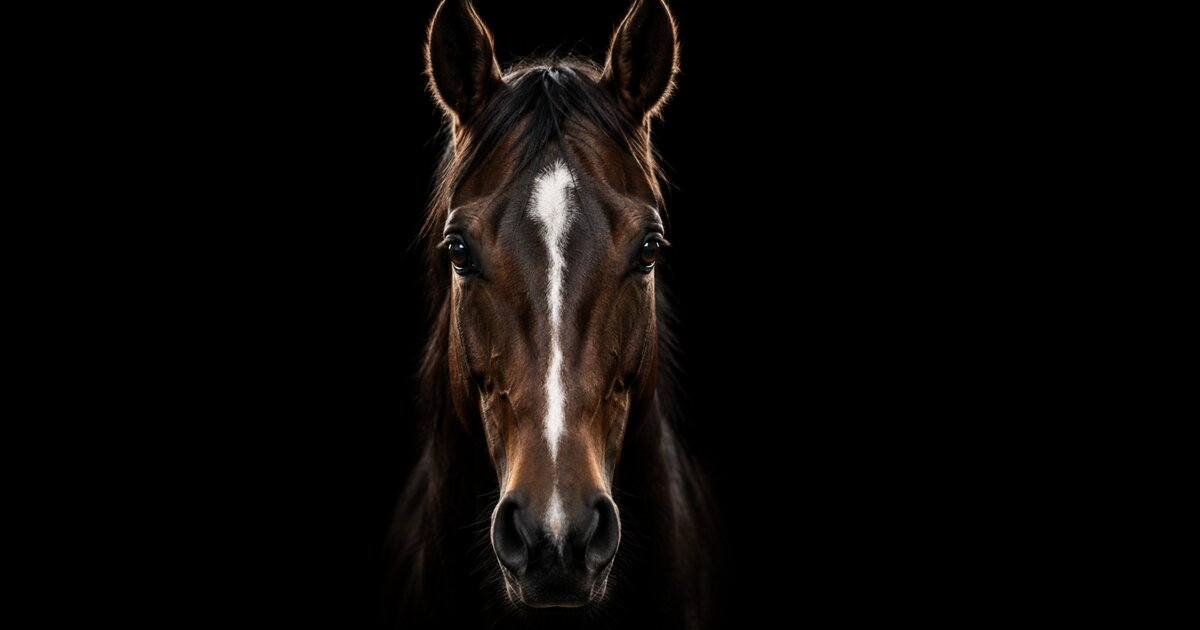
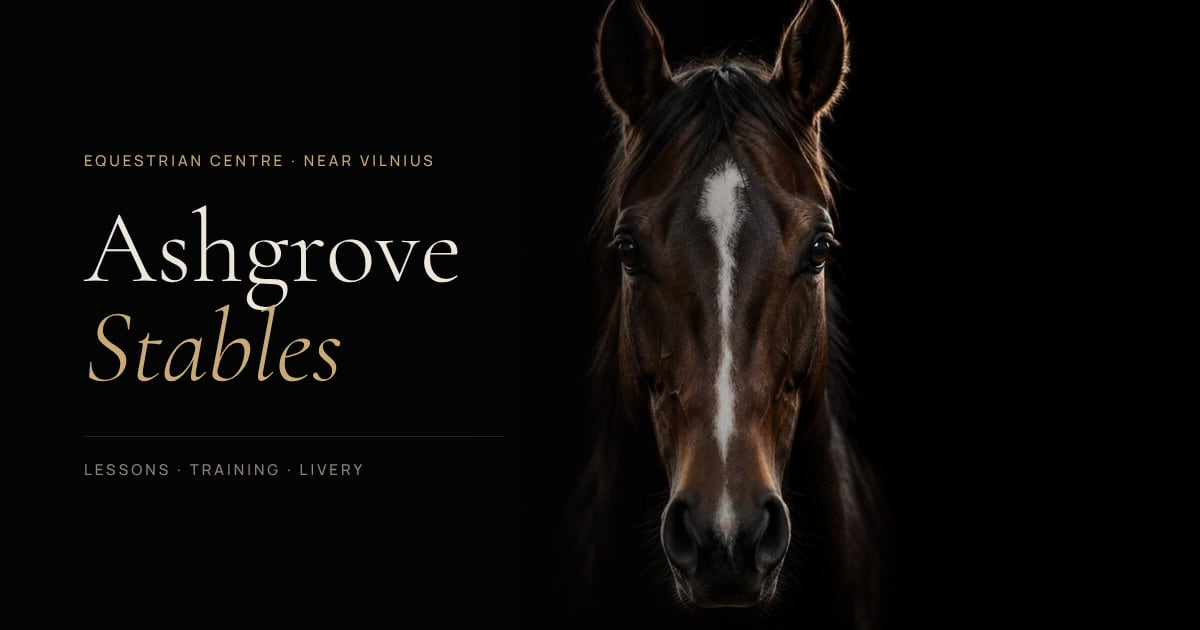
Site audit: performance, accessibility, keyboard, SEO fixes
Lighthouse (mobile / desktop): Performance 80 -> 94 / 78 -> 98,
Accessibility 96 -> 100, Best Practices and SEO 100.

- Layout shift 0.309 -> 0: hero copy isn't painted until the intro plays;
  above-the-fold fonts are preloaded
- CSS inlined (no render-blocking request)
- Responsive WebP photos via npm run images (originals untouched) and a
  Photo component with srcset/sizes; 828 KB of JPG -> ~200 KB at 1024px
- Reduced-motion hero still and frame preload no longer download for
  motion visitors
- Canvases redraw only when a closer frame arrives (was ~170 full redraws
  during load)
- Horse names: aria-label moved to the h3 (prohibited on span)
- Escape closes the mobile menu; contact heading clears the horse on
  portrait tablets
- Branded 1200x630 share image, shorter title/description, logo in
  LocalBusiness schema

Claude-Session: https://claude.ai/code/session_01BUn7GMGc92Bcd1mwiRrJxu

diff --git a/src/data/content.ts b/src/data/content.ts
@@ -12,12 +12,12 @@ export const site = {
 };
 
 export const seo = {
-  title: 'Ashgrove Stables — Riding Lessons, Training & Livery near Vilnius',
+  title: 'Ashgrove Stables — Riding Lessons & Livery near Vilnius',
   description:
-    'Riding lessons for all ages, horse training and full livery in the countryside 20 minutes from Vilnius. Calm horses, small groups, experienced coaches. Book a first lesson.',
+    'Riding lessons for all ages, horse training and full livery 20 minutes from Vilnius. Calm horses, small groups, experienced coaches. Book a first lesson.',
   image: {
     src: '/og-image.jpg',
-    alt: 'A dark bay horse with a white blaze looking straight at the camera on a black background.',
+    alt: 'Ashgrove Stables — equestrian centre near Vilnius. A dark bay horse with a white blaze looks straight at the camera.',
   },
   // Used for Google's business listing data (structured data). SAMPLE values.
   business: {

diff --git a/src/scripts/preloader.ts b/src/scripts/preloader.ts
@@ -9,7 +9,7 @@ import { EASE } from './motion';
 import { headFrames, whenLoaded, FIRST_BATCH } from './head-frames';
 
 const TRACK_WIDTH = 200; // px, matches the markup
-const MIN_TIME = 900; // ms — never flash
+const MIN_TIME = 600; // ms — never flash
 const MAX_TIME = 8000; // ms — never trap the visitor on a slow connection
 
 const wait = (ms: number) => new Promise<void>((r) => setTimeout(r, ms));
@@ -56,7 +56,7 @@ export async function runPreloader(onReveal: () => void): Promise<void> {
   const tl = gsap.timeline({ onComplete: () => root.remove() });
   tl.to(ui, { opacity: 0, y: -8, duration: 0.8, ease: EASE })
     .to(name, { yPercent: -60, opacity: 0, duration: 1.2, ease: EASE }, 0)
-    .add(onReveal, 0.5)
-    .to(root, { opacity: 0, duration: 1.2, ease: EASE }, 0.5);
+    .add(onReveal, 0.3)
+    .to(root, { opacity: 0, duration: 1.2, ease: EASE }, 0.3);
   await tl;
 }

diff --git a/src/data/images.ts b/src/data/images.ts
@@ -1,0 +1,19 @@
+/**
+ * Responsive WebP copies made by `npm run images` (scripts/optimize-images.mjs).
+ * Keep WIDTHS in sync with that script.
+ */
+const WIDTHS: Record<string, number[]> = {
+  '/images/hero-still.jpg': [480, 800, 1200],
+};
+const DEFAULT_WIDTHS = [640, 1024, 1600]; // /images/stable/*.jpg
+
+export function webpSrcset(src: string): string | null {
+  if (!src.endsWith('.jpg') || !src.startsWith('/images/')) return null;
+  const widths = WIDTHS[src] ?? DEFAULT_WIDTHS;
+  return widths.map((w) => `${src.replace(/\.jpg$/, `-${w}.webp`)} ${w}w`).join(', ');
+}
+
+/** A single mid-size WebP (e.g. for the floating horse portrait). */
+export function webpAt(src: string, width: number): string {
+  return src.endsWith('.jpg') ? src.replace(/\.jpg$/, `-${width}.webp`) : src;
+}

diff --git a/src/scripts/hero.ts b/src/scripts/hero.ts
@@ -42,7 +42,15 @@ export function initHero(): void {
   new ResizeObserver(resize).observe(canvas);
 
   // Redraw as frames arrive (the first frame may land after the first resize).
-  images.forEach((img) => img.addEventListener('load', () => draw(true)));
+  // A frame just arrived: redraw only if it is closer to the wanted frame than the one shown
+  // (avoids ~87 full-canvas redraws while the sequence loads).
+  images.forEach((img, i) =>
+    img.addEventListener('load', () => {
+      const want = Math.round(state.progress * (HEAD_FRAME_COUNT - 1));
+      const shown = drawnImg ? images.indexOf(drawnImg) : -1;
+      if (shown < 0 || Math.abs(i - want) < Math.abs(shown - want)) draw(true);
+    }),
+  );
   resize();
 
   const tl = gsap.timeline({

diff --git a/src/scripts/contact.ts b/src/scripts/contact.ts
@@ -36,7 +36,15 @@ export function initContact(): void {
     sizeCanvas(canvas);
     draw(true);
   }).observe(canvas);
-  images.forEach((img) => img.addEventListener('load', () => draw(true)));
+  // A frame just arrived: redraw only if it is closer to the wanted frame than the one shown
+  // (avoids ~87 full-canvas redraws while the sequence loads).
+  images.forEach((img, i) =>
+    img.addEventListener('load', () => {
+      const want = Math.round((1 - progress) * (HEAD_FRAME_COUNT - 1));
+      const shown = drawnImg ? images.indexOf(drawnImg) : -1;
+      if (shown < 0 || Math.abs(i - want) < Math.abs(shown - want)) draw(true);
+    }),
+  );
 
   ScrollTrigger.create({
     trigger: section,

diff --git a/src/scripts/main.ts b/src/scripts/main.ts
@@ -20,6 +20,13 @@ ScrollTrigger.config({ ignoreMobileResize: true });
 document.querySelectorAll('header details a').forEach((a) =>
   a.addEventListener('click', () => a.closest('details')?.removeAttribute('open')),
 );
+// Escape closes the mobile menu and returns focus to its button.
+document.addEventListener('keydown', (e) => {
+  const menu = document.querySelector<HTMLDetailsElement>('header details[open]');
+  if (e.key !== 'Escape' || !menu) return;
+  menu.removeAttribute('open');
+  menu.querySelector('summary')?.focus();
+});
 
 async function main() {
   const motion = prefersMotion();

diff --git a/src/scripts/reveals.ts b/src/scripts/reveals.ts
@@ -26,6 +26,8 @@ export function heroIntro(): gsap.core.Timeline {
   const hero = document.getElementById('top');
   if (!hero) return tl; // pages without the hero (privacy, 404)
   const h1 = hero.querySelector<HTMLElement>('[data-split]');
+  const copy = hero.querySelector<HTMLElement>('[data-hero-copy]');
+  if (copy) tl.set(copy, { visibility: 'visible', animation: 'none' }, 0); // hidden by CSS until now
 
   tl.from('[data-hero-media]', { scale: 1.06, duration: 1.4, ease: EASE }, 0)
     .from(hero.querySelectorAll('.label'), { opacity: 0, duration: 1, ease: EASE, stagger: 0.1 }, 0.3)

diff --git a/src/styles/global.css b/src/styles/global.css
@@ -192,6 +192,18 @@
   margin-right: -0.08em;
 }
 
+/* Hero copy waits for the intro (it is under the preloader anyway). Not painted = no layout
+   shift while fonts load and lines are split. Failsafe if the script never runs. */
+.js-motion [data-hero-copy] {
+  visibility: hidden;
+  animation: reveal-failsafe 0s 10s forwards;
+}
+@keyframes reveal-failsafe {
+  to {
+    visibility: visible;
+  }
+}
+
 /* Preloader: only exists for motion-enabled visitors with JS */
 .preloader {
   display: none;
